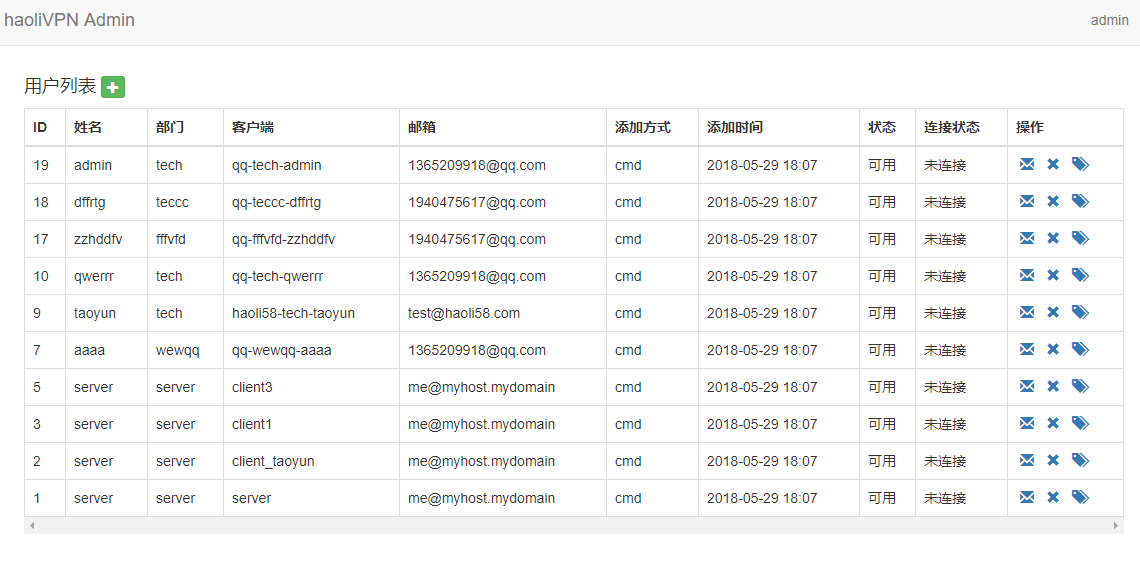
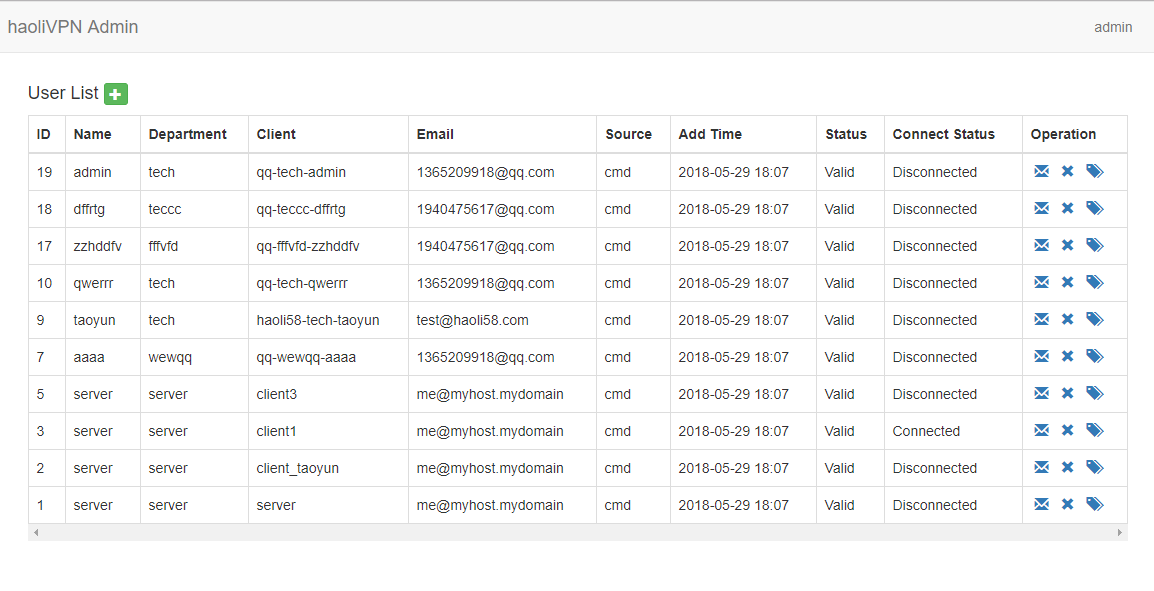
feat(lang): English

diff --git a/templates/user.html b/templates/user.html
@@ -9,7 +9,7 @@
     <!-- Users grid -->
     <div class="block-grid row" id="user-grid">
         <h4>
-            用户列表 <a class="btn btn-success btn-xs" href="/add_user"><span class="glyphicon glyphicon-plus"></span></a>
+            User List <a class="btn btn-success btn-xs" href="/add_user"><span class="glyphicon glyphicon-plus"></span></a>
         </h4>
 
         <div class="responsive-table">
@@ -18,15 +18,15 @@
                     <thead>
                     <tr>
                         <th>ID</th>
-                        <th>姓名</th>
-                        <th>部门</th>
-                        <th>客户端</th>
-                        <th>邮箱</th>
-                        <th>添加方式</th>
-                        <th>添加时间</th>
-                        <th>状态</th>
-                        <th>连接状态</th>
-                        <th>操作</th>
+                        <th>Name</th>
+                        <th>Department</th>
+                        <th>Client</th>
+                        <th>Email</th>
+                        <th>Source</th>
+                        <th>Add Time</th>
+                        <th>Status</th>
+                        <th>Connect Status</th>
+                        <th>Operation</th>
                     </tr>
                     </thead>
                     {% for user in users %}
@@ -39,10 +39,10 @@
                             <td>{{ user.type }}</td>
                             <td>{{ moment(user.addtime).format('YYYY-MM-DD HH:mm') }}</td>
                             <td>{{ user_status[user.status] }}</td>
-                            <td>{% if user.online == 1%}已连接{% else %}未连接{% endif %}</td>
+                            <td>{% if user.online == 1%}Connected{% else %}Disconnected{% endif %}</td>
                             <td>
                                 {% if user.status == 1 and user.send_status == 0 %}
-                                    <a class="glyphicon glyphicon-envelope action" id="send" title="发送配置文件到邮箱"
+                                    <a class="glyphicon glyphicon-envelope action" id="send" title="send to email"
                                        onclick="sendEmail('{{ user.client }}')"></a>
                                 {% endif %}
 {#                                {% if user.status == 1 and user.load_status == 1 %}#}
@@ -50,15 +50,15 @@
 {#                                       onclick="downloadClient('{{ user.client }}')"></a>#}
 {#                                {% endif %}#}
                                 {% if user.status == 1 %}
-                                    <a class="glyphicon glyphicon-remove action" id="delete" title="删除此用户"
+                                    <a class="glyphicon glyphicon-remove action" id="delete" title="delete"
                                        onclick="deleteUser('{{ user.client }}')"></a>
                                 {% endif %}
-                                <a class="glyphicon glyphicon-tags action" id="tags" title="连接记录" href="/loglist?title=client&keyword={{ user.client }}"></a>
+                                <a class="glyphicon glyphicon-tags action" id="tags" title="log" href="/loglist?title=client&keyword={{ user.client }}"></a>
                             </td>
                         </tr>
                     {% else %}
                         <tr>
-                            <td colspan="10" class="text-center">无相应记录</td>
+                            <td colspan="10" class="text-center">No Records</td>
                         </tr>
                     {% endfor %}
                 </table>

diff --git a/templates/loglist.html b/templates/loglist.html
@@ -16,33 +16,33 @@
     <!-- Users grid -->
     <div class="block-grid row" id="user-grid">
         <h4>
-            用户连接日志
+            User Connection Log
         </h4>
 
         <nav class="navbar navbar-default" role="navigation">
             <form class="navbar-form navbar-left" role="search" method="get" id="form">
                 <div class="form-group navbar-left" style="padding: 10px">
-                    连接日期
+                    Date
                     <input type="text" class="form-control" id="con_startdate" name="startdate">
                     ~
                     <input type="text" class="form-control" id="con_enddate" name="enddate">
                 </div>
                 <div class="form-group navbar-left" style="padding:10px">
-                    状态
+                    Status
                     <select name="status" class="form-control">
-                        <option value="">全部</option>
-                        <option value="1">连接中</option>
-                        <option value="0">已断开</option>
+                        <option value="">All</option>
+                        <option value="1">Connected</option>
+                        <option value="0">Disconnected</option>
                     </select>
                 </div>
                 <div class="form-group navbar-left" style="padding:10px">
-                    搜索项
+                    Term
                     <select name="title" class="form-control">
-                        <option value="name">用户名</option>
-                        <option value="client">客户端</option>
+                        <option value="name">Name</option>
+                        <option value="client">Client</option>
                     </select>
                     <input class="form-control" type="text" placeholder="Search" name="keyword">
-                    <button class="btn btn-default" type="submit">搜索</button>
+                    <button class="btn btn-default" type="submit">Search</button>
                 </div>
             </form>
         </nav>
@@ -53,8 +53,8 @@
                     <thead>
                     <tr>
                         <th>ID</th>
-                        <th>用户名</th>
-                        <th>客户端</th>
+                        <th>Name</th>
+                        <th>Client</th>
                         <th>Trusted IP</th>
                         <th>Trusted Port</th>
                         <th>Remote IP</th>
@@ -73,7 +73,7 @@
                             <td>{{ item.Log.trust_ip or "" }}</td>
                             <td>{{ item.Log.trust_port or "" }}</td>
                             <td>{{ item.Log.remote_ip or "" }}</td>
-                            <td>{% if item.Log.status == 1 %}连接中{% else %}已断开{% endif %}</td>
+                            <td>{% if item.Log.status == 1 %}Connected{% else %}Disconnected{% endif %}</td>
                             <td>
                                 {% if item.Log.start_time %}
                                     {{ moment(item.Log.start_time).format('YYYY-MM-DD HH:mm:ss') }}
@@ -89,7 +89,7 @@
                         </tr>
                     {% else %}
                         <tr>
-                            <td colspan="11" class="text-center">无相应记录</td>
+                            <td colspan="11" class="text-center">No Records</td>
                         </tr>
                     {% endfor %}
                 </table>

diff --git a/templates/process.html b/templates/process.html
@@ -17,35 +17,35 @@
             <table id="table-users" class="table table-bordered table-hover" style="margin: 0">
                 <thead>
                 <tr>
-                    <th>进程名</th>
-                    <th>状态</th>
-                    <th>log</th>
-                    <th>操作</th>
+                    <th>Process</th>
+                    <th>Status</th>
+                    <th>Log</th>
+                    <th>Operation</th>
                 </tr>
                 </thead>
                 <tr>
                     <td>OpenVPN scheduler</td>
                     <td>
                         {% if not scheduler %}
-                            未运行
+                            Not Run
                         {% elif number == 1%}
-                            正常运行
+                            Running
                         {% else %}
-                            运行异常
+                            Error
                         {% endif %}
                     </td>
                     <td>
                         {% if scheduler and number == 1 %}
                         <div>
                             <i class="glyphicon glyphicon-download"></i>
-                            <a id="down_log" title="下载运行日志" href="/process/log"
+                            <a id="down_log" title="Download Running Log" href="/process/log"
                                style="display: inline-block; line-height: 18px"; height="20px">RunningLog</a>
                             </a>
                         </div>
                         {% elif scheduler %}
                         <div>
                             <i class="glyphicon glyphicon-download"></i>
-                            <a id="down_error" title="下载错误日志" href="/process/error"
+                            <a id="down_error" title="Download Error Log" href="/process/error"
                                style="display: inline-block; line-height: 18px"; height="20px">ErrorLog</a>
                             </a>
                         </div>

diff --git a/templates/index.html b/templates/index.html
@@ -10,25 +10,25 @@
     <div class="block-grid row" id="user-grid">
         <div class="alert alert-info" role="alert">
             <a class="close" data-dismiss="alert" href="#">×</a>
-            欢迎来到 HaoliVPN 管理系统
+            Welcome To HaoliVPN Management System
         </div>
         <div class="row">
             {% if can_admin(permission.USER_MANAGE) %}
                 <div class="col-xs-12 col-sm-6">
-                    <a class="btn btn-primary home-quick-link" href="/user_list">VPN用户列表</a>
+                    <a class="btn btn-primary home-quick-link" href="/user_list">VPN User List</a>
                 </div>
                 <div class="col-xs-12 col-sm-6">
-                    <a class="btn btn-primary home-quick-link" href="add_user">添加VPN用户</a>
+                    <a class="btn btn-primary home-quick-link" href="add_user">Add VPN User</a>
                 </div>
             {% endif %}
             {% if can_admin(permission.LOG_MANAGE) %}
                 <div class="col-xs-12 col-sm-6">
-                    <a class="btn btn-info home-quick-link" href="/loglist">用户日志</a>
+                    <a class="btn btn-info home-quick-link" href="/loglist">User Log</a>
                 </div>
             {% endif %}
             {% if can_admin(permission.USER_MANAGE) %}
                 <div class="col-xs-12 col-sm-6">
-                    <a class="btn btn-default home-quick-link" href="/process">进程管理</a>
+                    <a class="btn btn-default home-quick-link" href="/process">Process</a>
                 </div>
             {% endif %}
         </div>

diff --git a/templates/login.html b/templates/login.html
@@ -9,7 +9,7 @@
     <!-- Login Form -->
     <div class="panel panel-default">
         <div class="panel-heading">
-            <h4 class="panel-title">登录</h4>
+            <h4 class="panel-title">Login</h4>
         </div>
         <form class="form-horizontal" method="POST" name="loginForm" id="loginForm" action="/login">
             <div class="panel-body" style="padding:32px 0">

diff --git a/templates/add_user.html b/templates/add_user.html
@@ -9,7 +9,7 @@
     <!-- Users grid -->
     <div class="panel panel-default">
         <div class="panel-heading">
-            <h4 class="panel-title">添加用户</h4>
+            <h4 class="panel-title">Add User</h4>
         </div>
         <form method="POST" name="addUserForm" id="addUserForm" action="/add_user">
             <div class="panel-body" style="padding:32px 0">

diff --git a/templates/status.html b/templates/status.html
@@ -9,7 +9,7 @@
     {#<div class="alert alert-success" role="alert">请求执行成功</div>#}
 
 
-    <a href="/" class="btn btn-info">首页</a>
-    <a href="javascript:window.history.back();" class="btn btn-info">返回</a>
+    <a href="/" class="btn btn-info">Index</a>
+    <a href="javascript:window.history.back();" class="btn btn-info">Back</a>
 
 {% endblock %}

diff --git a/templates/404.html b/templates/404.html
@@ -3,5 +3,5 @@
 {% block title %} 404 {% endblock %}
 
 {% block page_content %}
-    <h1>404错误：页面没有找到 </h1>
+    <h1>404：Not Found! </h1>
 {% endblock %}

diff --git a/firstApp/views.py b/firstApp/views.py
@@ -46,7 +46,7 @@ def index():
 @permission_required(Permission.USER_MANAGE)
 def user_list():
     # 获取所有user
-    user_status = [u'添加中', u'可用', u'添加失败', u'删除中', u'已删除', ]
+    user_status = ['Creating', 'Valid', 'Crate failed', u'Deleting', u'Deleted', ]
     users = User.query.filter(User.status != 4).order_by(User.id.desc()).all()
     return render_template('user.html', users=users, user_status=user_status)
 
@@ -87,10 +87,10 @@ def add_user():
             user = User(form.name.data, form.email.data, form.depart.data, client, 'web', 0)
             db.session.add(user)
             db.session.commit()
-            flash(u"添加用户成功！")
+            flash("Add user success！")
             return render_template('status.html')
         else:
-            flash(u'姓名和部门必须由字母或数字组成，请更改', 'danger')
+            flash('Name and department must only consist of letters or numbers, please modify them!', 'danger')
             return render_template('status.html')
 
     else:
@@ -110,9 +110,9 @@ def delete_user():
             db.session.commit()
             return json.dumps({'success': True})
         else:
-            return json.dumps({'success': False, 'lastlog': u'用户不存在'})
+            return json.dumps({'success': False, 'lastlog': 'User not exist!'})
     else:
-        return json.dumps({'success': False, 'lastlog': u'用户不存在'})
+        return json.dumps({'success': False, 'lastlog': 'User not exist!'})
 
 @firstApp_app.route('/send_email', methods=['POST'])
 @login_required
@@ -125,7 +125,7 @@ def send_email():
         db.session.commit()
         return json.dumps({'success': True})
     else:
-        return json.dumps({'success': False, 'lastlog': u'用户不存在'})
+        return json.dumps({'success': False, 'lastlog': 'User not exist!'})
 
 @firstApp_app.route('/loglist')
 @login_required
@@ -198,7 +198,7 @@ def process_log():
         respnse.headers["Content-Disposition"] = "attament; filename=scheduler.log"
         return respnse
     else:
-        flash(u'日志文件不存在', 'danger')
+        flash('Log file does not exist', 'danger')
         return render_template('status.html')
 
 @firstApp_app.route('/process/error')
@@ -211,5 +211,5 @@ def process_error():
         respnse.headers["Content-Disposition"] = "attament; filename=scheduler.error"
         return respnse
     else:
-        flash(u'日志文件不存在', 'danger')
+        flash('Log file does not exist', 'danger')
         return render_template('status.html')

diff --git a/firstApp/forms.py b/firstApp/forms.py
@@ -9,13 +9,13 @@ from flask import current_app
 import ldap
 
 class AddUserForm(FlaskForm):
-    name = StringField(u'姓名', [validators.required(), validators.Length(min=2, max=16)])
-    depart = StringField(u'部门', [validators.required(), validators.Length(min=4, max=64)])
-    email = StringField(u'邮件', [validators.required(), validators.Email()])
+    name = StringField('Name', [validators.required(), validators.Length(min=2, max=16)])
+    depart = StringField('Department', [validators.required(), validators.Length(min=4, max=64)])
+    email = StringField('E-mail', [validators.required(), validators.Email()])
 
 class LoginForm(FlaskForm):
-    username = StringField(u'用户名', [validators.required(), validators.length(min=2, max=20)])
-    password = PasswordField(u'密码', [validators.required(), validators.length(min=6, max=64)])
+    username = StringField('Name', [validators.required(), validators.length(min=2, max=20)])
+    password = PasswordField('Password', [validators.required(), validators.length(min=6, max=64)])
 
     def validate_ldap(self):
         # 'Validate the username/password data against ldap directory'
